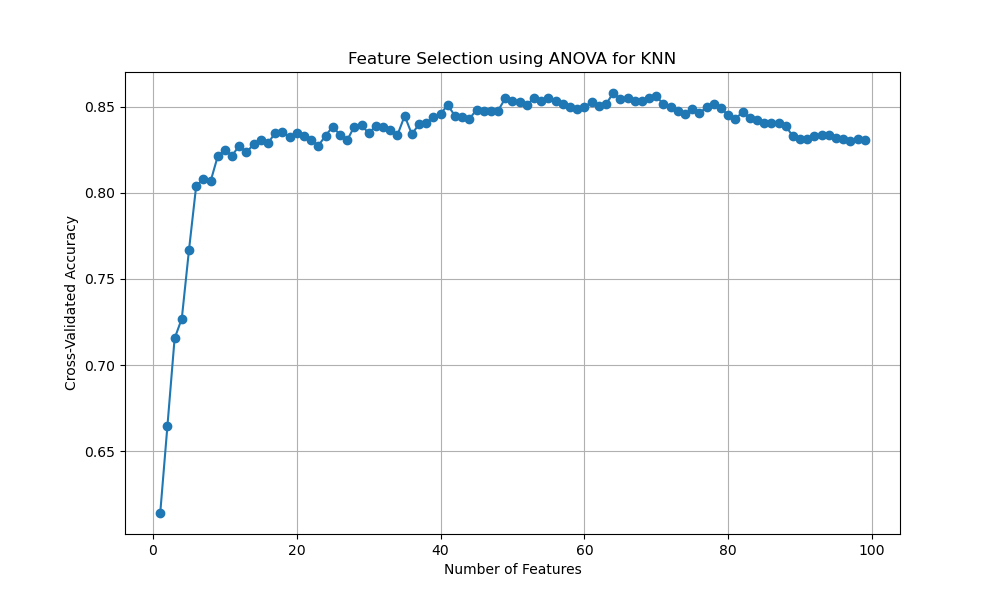
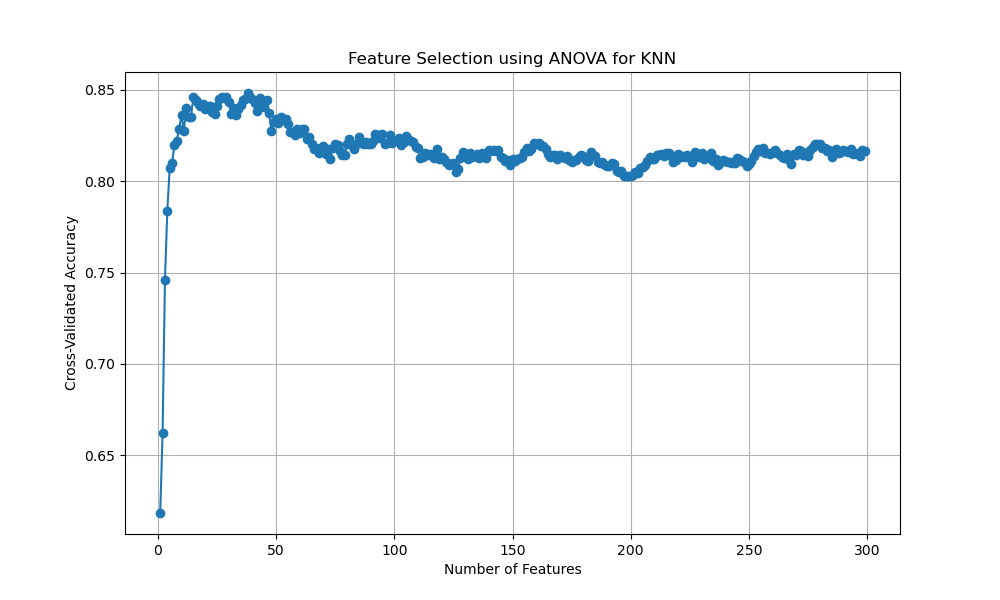
implemented v2 feature selection

diff --git a/KNNv1.3.py b/KNNv1.3.py
@@ -1,0 +1,130 @@
+import pandas as pd
+import numpy as np
+import seaborn as sns
+import matplotlib.pyplot as plt
+from imblearn.over_sampling import SMOTE
+from sklearn.feature_selection import SelectKBest, f_classif
+from sklearn.preprocessing import StandardScaler
+from sklearn.pipeline import Pipeline
+from sklearn.model_selection import train_test_split, cross_val_score
+from sklearn.neighbors import KNeighborsClassifier
+from sklearn.metrics import precision_recall_fscore_support as  score
+from sklearn import metrics
+# Define a function to evaluate different numbers of features
+def evaluate_features_knn(k, n_neighbors):
+    selector = SelectKBest(f_classif, k=k)
+    scaler = StandardScaler()
+    knn_model = KNeighborsClassifier(n_neighbors=n_neighbors)
+    
+    pipeline = Pipeline([
+        ('feature_selection', selector),
+        ('scaler', scaler),
+        ('knn', knn_model)
+    ])
+    
+    # Evaluate using cross-validation
+    scores = cross_val_score(pipeline, X_train_resampled, y_train_resampled, cv=5, scoring='accuracy')
+    return scores.mean()
+
+#variables
+num_Neighbor = 11
+split = 0.2
+
+#read data
+data_features = pd.read_csv("../data/driams_Escherichia coli_Ceftriaxone_features.csv")
+data_labels = pd.read_csv("../data/driams_Escherichia coli_Ceftriaxone_labels.csv")
+data_features = data_features.rename(columns={data_features.columns[0]: "ID"})
+data_labels = data_labels.rename(columns={data_labels.columns[0]: "ID"})
+data = pd.merge(data_features, data_labels, on="ID", how="inner")
+data = data.drop(columns=['ID'])
+X = data.iloc[:, :-1].values
+y = data.iloc[:, -1].values
+
+
+# Split the data into training and testing sets
+X_train, X_test, y_train, y_test = train_test_split(X, y, test_size=0.2, random_state=42)
+
+# Handle class imbalance using SMOTE
+smote = SMOTE(random_state=42)
+X_train_resampled, y_train_resampled = smote.fit_resample(X_train, y_train)
+
+error_rates = []
+for i in np.arange(1, 302, step=2):
+    new_model = KNeighborsClassifier(n_neighbors = i)
+    new_model.fit(X_train_resampled, y_train_resampled)
+    new_predictions = new_model.predict(X_test)
+    print(np.mean(new_predictions != y_test))
+    error_rates.append(np.mean(new_predictions != y_test))
+
+plt.figure(figsize=(16,12))
+plt.xlabel('Number of Neighbors')
+plt.ylabel('Error Rate')
+plt.title('Elbow Plot for n Selection')
+plt.plot(error_rates)
+plt.savefig(f"../FoDSProject/kNN_performance/kNN_Elbow_{str(split)}_split.png")
+plt.close()
+
+
+num_features = np.arange(1, 300)
+results_knn = {k: evaluate_features_knn(k,num_Neighbor) for k in num_features}
+
+# Find the best number of features
+best_k_knn = max(results_knn, key=results_knn.get)
+print(f"Best number of features (KNN): {best_k_knn}")
+print(f"Accuracy with {best_k_knn} features (KNN): {results_knn[best_k_knn]}")
+
+# Plot the results
+plt.figure(figsize=(10, 6))
+plt.plot(num_features, [results_knn[k] for k in num_features], marker='o')
+plt.xlabel('Number of Features')
+plt.ylabel('Cross-Validated Accuracy')
+plt.title('Feature Selection using ANOVA for KNN')
+plt.grid()
+plt.savefig(f"../FoDSProject/kNN_performance/kNN_feature_selection_{str(split)}_split{num_Neighbor}_neighbors.png")
+plt.close()
+
+selector = SelectKBest(f_classif, k=best_k_knn)
+X_train_resampled_new = selector.fit_transform(X_train_resampled, y_train_resampled)
+X_test_new = selector.transform(X_test)
+
+# Best features
+# Get the scores (F-values) of each feature
+feature_scores = selector.scores_
+# Create a dictionary mapping feature names to their scores
+feature_score_dict = dict(zip(data.columns[:-1], feature_scores))
+# Sort the dictionary by scores in descending order
+sorted_feature_score_dict = dict(sorted(feature_score_dict.items(), key=lambda item: item[1], reverse=True))
+# Print the top features and their scores
+top_features = list(sorted_feature_score_dict.keys())[:10]  # Print the top 10 features
+print("Top features and their scores:")
+for feature in top_features:
+    print(f"Feature: {feature}, Score: {sorted_feature_score_dict[feature]}")
+
+
+# Standardize the features
+scaler = StandardScaler()
+X_train_resampled_new = scaler.fit_transform(X_train_resampled_new)
+X_test_new = scaler.transform(X_test_new)
+
+knn = KNeighborsClassifier(n_neighbors=num_Neighbor)
+knn.fit(X_train_resampled_new, y_train)
+fpr, tpr, thresholds = metrics.roc_curve(y_test, knn.predict_proba(X_test_new)[:,1])
+auc = metrics.roc_auc_score(y_test,knn.predict(X_test_new))
+plt.plot(fpr, tpr, label='%s ROC (area = %0.2f)' % (1, auc))
+yhat = knn.predict(X_test_new)
+
+precision, recall, fscore, support = score(y_test, yhat)
+
+plt.plot([0, 1], [0, 1],'r--')
+plt.xlim([0.0, 1.0])
+plt.ylim([0.0, 1.05])
+plt.xlabel("False Positive Rate")
+plt.ylabel("True Positive Rate")
+plt.title("ROC-Curve")
+plt.legend(loc="lower right")
+plt.savefig(f"../FoDSProject/kNN_performance/kNN_ROC_{str(split)}_split{num_Neighbor}_neighbors.png")
+plt.close()
+
+metric_Df = pd.DataFrame({"precision": precision.tolist(), "recall": recall.tolist(), "fscore": fscore.tolist(), "support": support.tolist()})
+metric_Df.to_csv(f"../FoDSProject/kNN_performance/kNN_metrics_{str(split)}_split{num_Neighbor}_neighbors.csv")
+
